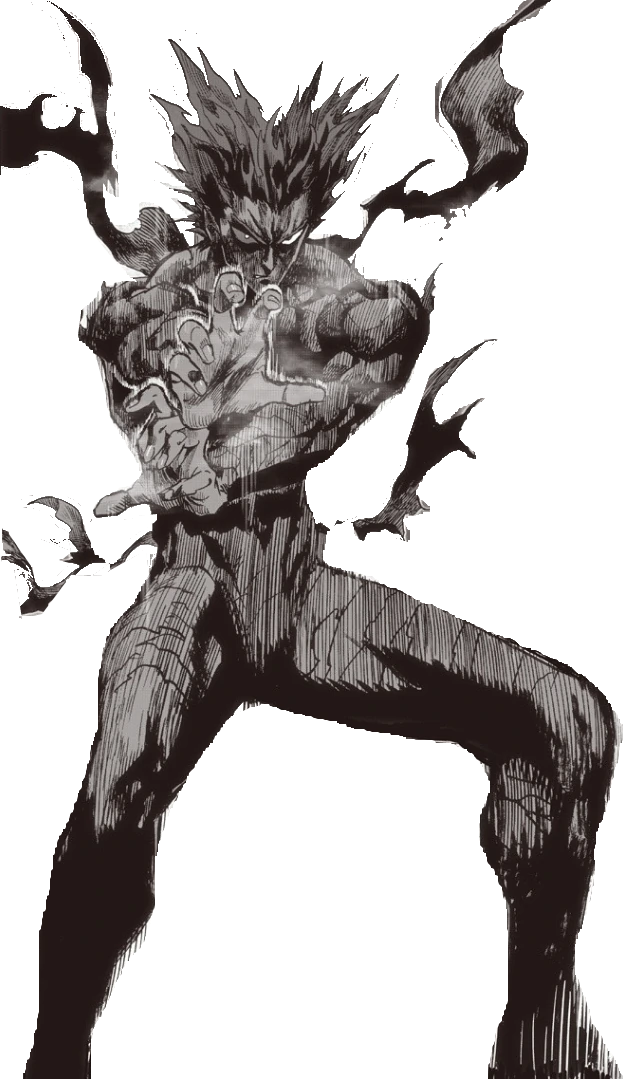
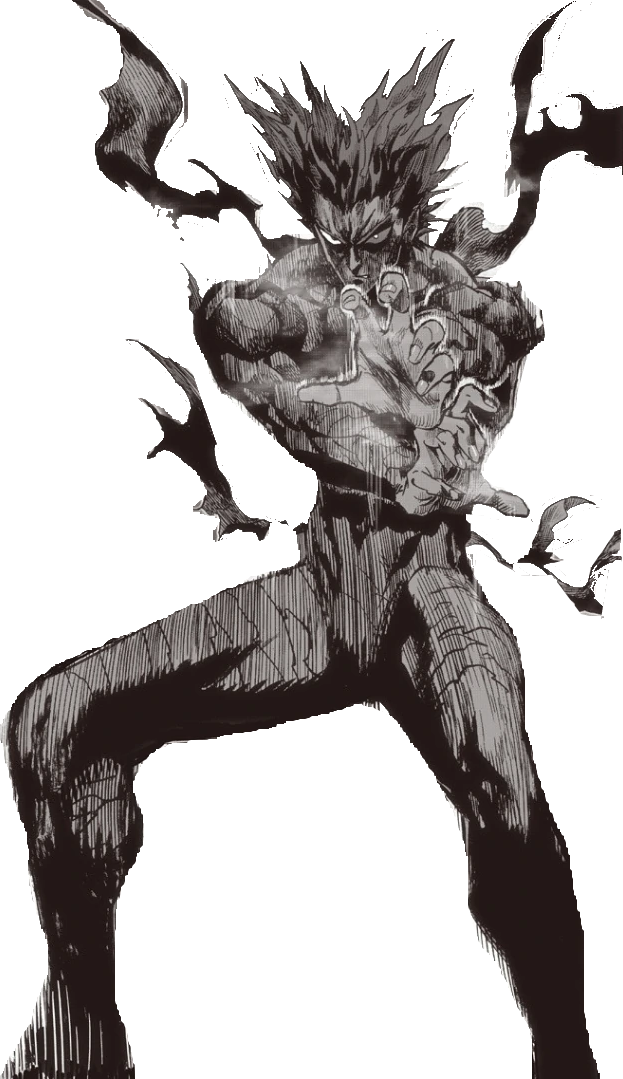
Types!
we now have type calculation, very cool

diff --git a/Type.cs b/Type.cs
@@ -1,0 +1,195 @@
+namespace Pokemon_Simulator
+{
+    public enum Type
+    {
+        Normal,
+        Fighting,
+        Flying,
+        Poison,
+        Ground,
+        Rock,
+        Bug,
+        Ghost,
+        Steel,
+        Fire,
+        Water,
+        Grass,
+        Electric,
+        Psychic,
+        Ice,
+        Dragon,
+        Dark,
+        Fairy,
+        None
+    }
+
+    public static class TypeData
+    {
+        public static float CalculateEffectiveness(Type pokemonType, Type moveType)
+        {
+            switch (pokemonType)
+            {
+                case Type.None:
+                    return 1;
+                case Type.Normal:
+                    if (moveType == Type.Rock) return 0.5f;
+                    else if (moveType == Type.Ghost) return 0;
+                    else if (moveType == Type.Steel) return 0.5f;
+                    return 1;
+                case Type.Fighting:
+                    if (moveType == Type.Normal) return 2;
+                    else if (moveType == Type.Flying) return 0.5f;
+                    else if (moveType == Type.Poison) return 0.5f;
+                    else if (moveType == Type.Rock) return 2;
+                    else if (moveType == Type.Bug) return 0.5f;
+                    else if (moveType == Type.Ghost) return 0;
+                    else if (moveType == Type.Steel) return 2;
+                    else if (moveType == Type.Psychic) return 0.5f;
+                    else if (moveType == Type.Ice) return 2;
+                    else if (moveType == Type.Dark) return 2;
+                    else if (moveType == Type.Fairy) return 0.5f;
+                    return 1;
+                case Type.Flying:
+                    if (moveType == Type.Fighting) return 2;
+                    else if (moveType == Type.Rock) return 0.5f;
+                    else if (moveType == Type.Bug) return 2;
+                    else if (moveType == Type.Steel) return 0.5f;
+                    else if (moveType == Type.Grass) return 2;
+                    else if (moveType == Type.Electric) return 0.5f;
+                    return 1;
+                case Type.Poison:
+                    if (moveType == Type.Poison) return 0.5f;
+                    else if (moveType == Type.Ground) return 0.5f;
+                    else if (moveType == Type.Rock) return 0.5f;
+                    else if (moveType == Type.Ghost) return 0.5f;
+                    else if (moveType == Type.Steel) return 0;
+                    else if (moveType == Type.Grass) return 2;
+                    else if (moveType == Type.Fairy) return 2;
+                    return 1;
+                case Type.Ground:
+                    if (moveType == Type.Flying) return 0;
+                    else if (moveType == Type.Rock) return 2;
+                    else if (moveType == Type.Bug) return 0.5f;
+                    else if (moveType == Type.Steel) return 2;
+                    else if (moveType == Type.Bug) return 0.5f;
+                    else if (moveType == Type.Fire) return 2;
+                    else if (moveType == Type.Grass) return 0.5f;
+                    else if (moveType == Type.Electric) return 2;
+                    return 1;
+                case Type.Rock:
+                    if (moveType == Type.Rock) return 0.5f;
+                    else if (moveType == Type.Flying) return 2;
+                    else if (moveType == Type.Ground) return 0.5f;
+                    else if (moveType == Type.Bug) return 2;
+                    else if (moveType == Type.Steel) return 0.5f;
+                    else if (moveType == Type.Fire) return 2;
+                    else if (moveType == Type.Ice) return 2;
+                    return 1;
+                case Type.Bug:
+                    if (moveType == Type.Fighting) return 0.5f;
+                    else if (moveType == Type.Flying) return 0.5f;
+                    else if (moveType == Type.Poison) return 0.5f;
+                    else if (moveType == Type.Rock) return 2;
+                    else if (moveType == Type.Ghost) return 0.5f;
+                    else if (moveType == Type.Steel) return 0.5f;
+                    else if (moveType == Type.Fire) return 0.5f;
+                    else if (moveType == Type.Grass) return 2;
+                    else if (moveType == Type.Psychic) return 2;
+                    else if (moveType == Type.Dark) return 2;
+                    else if (moveType == Type.Fairy) return 0.5f;
+                    return 1;
+                case Type.Ghost:
+                    if (moveType == Type.Normal) return 0;
+                    else if (moveType == Type.Ghost) return 2;
+                    else if (moveType == Type.Psychic) return 2;
+                    else if (moveType == Type.Dark) return 0.5f;
+                    return 1;
+                case Type.Steel:
+                    if (moveType == Type.Rock) return 2;
+                    else if (moveType == Type.Steel) return 0.5f;
+                    else if (moveType == Type.Fire) return 0.5f;
+                    else if (moveType == Type.Water) return 0.5f;
+                    else if (moveType == Type.Electric) return 0.5f;
+                    else if (moveType == Type.Ice) return 2;
+                    else if (moveType == Type.Fairy) return 2;
+                    return 1;
+                case Type.Fire:
+                    if (moveType == Type.Rock) return 0.5f;
+                    else if (moveType == Type.Bug) return 2;
+                    else if (moveType == Type.Steel) return 2;
+                    else if (moveType == Type.Fire) return 0.5f;
+                    else if (moveType == Type.Water) return 0.5f;
+                    else if (moveType == Type.Grass) return 2;
+                    else if (moveType == Type.Ice) return 2;
+                    else if (moveType == Type.Dragon) return 0.5f;
+                    return 1;
+                case Type.Water:
+                    if (moveType == Type.Ground) return 2;
+                    else if (moveType == Type.Rock) return 2;
+                    else if (moveType == Type.Fire) return 2;
+                    else if (moveType == Type.Water) return 0.5f;
+                    else if (moveType == Type.Grass) return 0.5f;
+                    else if (moveType == Type.Dragon) return 0.5f;
+                    return 1;
+                case Type.Grass:
+                    if (moveType == Type.Flying) return 0.5f;
+                    else if (moveType == Type.Poison) return 0.5f;
+                    else if (moveType == Type.Ground) return 2;
+                    else if (moveType == Type.Rock) return 2;
+                    else if (moveType == Type.Bug) return 0.5f;
+                    else if (moveType == Type.Steel) return 0.5f;
+                    else if (moveType == Type.Fire) return 0.5f;
+                    else if (moveType == Type.Water) return 2;
+                    else if (moveType == Type.Grass) return 0.5f;
+                    else if (moveType == Type.Dragon) return 0.5f;
+                    return 1;
+                case Type.Electric:
+                    if (moveType == Type.Flying) return 2;
+                    else if (moveType == Type.Ground) return 0;
+                    else if (moveType == Type.Water) return 2;
+                    else if (moveType == Type.Grass) return 0.5f;
+                    else if (moveType == Type.Electric) return 0.5f;
+                    else if (moveType == Type.Dragon) return 0.5f;
+                    return 1;
+                case Type.Psychic:
+                    if (moveType == Type.Fighting) return 2;
+                    else if (moveType == Type.Poison) return 2;
+                    else if (moveType == Type.Steel) return 0.5f;
+                    else if (moveType == Type.Psychic) return 0.5f;
+                    else if (moveType == Type.Dark) return 0;
+                    return 1;
+                case Type.Ice:
+                    if (moveType == Type.Flying) return 2;
+                    else if (moveType == Type.Ground) return 2;
+                    else if (moveType == Type.Steel) return 0.5f;
+                    else if (moveType == Type.Fire) return 0.5f;
+                    else if (moveType == Type.Water) return 0.5f;
+                    else if (moveType == Type.Grass) return 2;
+                    else if (moveType == Type.Ice) return 0.5f;
+                    else if (moveType == Type.Dragon) return 2;
+                    return 1;
+                case Type.Dragon:
+                    if (moveType == Type.Steel) return 0.5f;
+                    else if (moveType == Type.Dragon) return 2;
+                    else if (moveType == Type.Fairy) return 0;
+                    return 1;
+                case Type.Dark:
+                    if (moveType == Type.Fighting) return 0.5f;
+                    else if (moveType == Type.Ghost) return 2;
+                    else if (moveType == Type.Psychic) return 2;
+                    else if (moveType == Type.Dark) return 0.5f;
+                    else if (moveType == Type.Fairy) return 0.5f;
+                    return 1;
+                case Type.Fairy:
+                    if (moveType == Type.Fighting) return 2;
+                    else if (moveType == Type.Poison) return 0.5f;
+                    else if (moveType == Type.Steel) return 0.5f;
+                    else if (moveType == Type.Fire) return 0.5f;
+                    else if (moveType == Type.Dragon) return 2;
+                    else if (moveType == Type.Dark) return 2;
+                    return 1;
+            }
+            return 1;
+        }
+    }
+}

diff --git a/Move.cs b/Move.cs
@@ -16,7 +16,7 @@ namespace Pokemon_Simulator
         public bool physical;
         public bool actualAttack;
         public bool recoil = false;
-        public string type;
+        public Type type;
         public int pp;
         public int maxPP;
         public bool canHealOneSelf = false;
@@ -53,7 +53,7 @@ namespace Pokemon_Simulator
             moveName = "Struggle";
             physical = true;
             actualAttack = true;
-            type = "None";
+            type = Type.None;
             pp = 10;
             maxPP = pp;
             recoil = true;
@@ -70,7 +70,7 @@ namespace Pokemon_Simulator
             moveName = "Dazzling Gleam";
             physical = false;
             actualAttack = true;
-            type = "Fairy";
+            type = Type.Fairy;
             pp = 10;
             maxPP = pp;
             canHealOneSelf = true;
@@ -87,7 +87,7 @@ namespace Pokemon_Simulator
             moveName = "Mystical Fire";
             physical = false;
             actualAttack = true;
-            type = "Fire";
+            type = Type.Fire;
             pp = 10;
             maxPP = pp;
             lowersEspAtk = true;
@@ -105,7 +105,7 @@ namespace Pokemon_Simulator
         {
             moveName = "Recover";
             actualAttack = false;
-            type = "Normal";
+            type = Type.Normal;
             pp = 5;
             maxPP = pp;
             canHealOneSelf = true;
@@ -123,7 +123,7 @@ namespace Pokemon_Simulator
         {
             moveName = "Calm Mind";
             actualAttack = false;
-            type = "Psychic";
+            type = Type.Psychic;
             pp = 20;
             maxPP = pp;
             raisesEspAtk = true;

diff --git a/Pokemon.cs b/Pokemon.cs
@@ -32,8 +32,8 @@ namespace Pokemon_Simulator
         protected double speed;
         public double currSpeed;
 
-        public string type1;
-        public string type2;
+        public Type type1 = Type.None;
+        public Type type2 = Type.None;
 
         public List<Move> moves;
 
@@ -70,8 +70,9 @@ namespace Pokemon_Simulator
             double defenseModifier = move.physical ? currAttack / target.currDefense : currSpecialAttack / target.currSpecialDefense;
             double stabModifier = (type1 == move.type || type2 == move.type) ? 1.5 : 1;
             // TODO: supereffective and not very effective
+            double effectiveModifier = TypeData.CalculateEffectiveness(type1, move.type) * TypeData.CalculateEffectiveness(type2, move.type);
 
-            double damage = ((levelModifier * move.damage * defenseModifier / 50) + 2) * stabModifier;
+            double damage = ((levelModifier * move.damage * defenseModifier / 50) + 2) * stabModifier * effectiveModifier;
 
             target.currHealth -= damage;
 

diff --git a/BattleWIndow.cs b/BattleWIndow.cs
@@ -71,6 +71,7 @@ namespace Pokemon_Simulator.Properties
             // Get the directory of the actual project, then get the resources folder
             playerPokemonImage.Image = Image.FromFile(Directory.GetParent(Environment.CurrentDirectory).Parent.Parent.FullName
                 + @"\Pokemon-Simulator\Resources\" + pokemon.name + "_Battle.png");
+            playerPokemonImage.Image.RotateFlip(RotateFlipType.RotateNoneFlipX);
 
             // Load their moves too
             LoadPlayerMoves(moves);

diff --git a/MainWindow.cs b/MainWindow.cs
@@ -180,7 +180,7 @@ namespace Pokemon_Simulator
             LblSpDefense.Text = "Sp. Def: " + selectedPokemon.GetSpecialDefense();
             LblSpeed.Text = "Speed: " + selectedPokemon.GetSpeed();
             LblType.Text = "Type: " + selectedPokemon.type1;
-            if (selectedPokemon.type2 != "None")
+            if (selectedPokemon.type2 != Type.None)
             {
                 LblType.Text += ", " + selectedPokemon.type2;
             }

diff --git a/PokemonClasses/Roserade.cs b/PokemonClasses/Roserade.cs
@@ -17,8 +17,8 @@ namespace Pokemon_Simulator.PokemonClasses
             specialAttack = currSpecialAttack = 145;
             specialDefense = currSpecialDefense = 125;
             speed = currSpeed = 110;
-            type1 = "Grass";
-            type2 = "Poison";
+            type1 = Type.Grass;
+            type2 = Type.Poison;
 
             moves.Add(new DazzlingGleam(this));
             moves.Add(new MysticalFire(this));

diff --git a/PokemonClasses/Kasane.cs b/PokemonClasses/Kasane.cs
@@ -18,8 +18,7 @@ namespace Pokemon_Simulator.PokemonClasses
             specialAttack = currSpecialAttack = 103;
             specialDefense = currSpecialDefense = 113;
             speed = currSpeed = 62;
-            type1 = "Fairy";
-            type2 = "None";          
+            type1 = Type.Fairy;        
 
             moves.Add(new DazzlingGleam(this));
             moves.Add(new MysticalFire(this));

diff --git a/PokemonClasses/Garou.cs b/PokemonClasses/Garou.cs
@@ -23,8 +23,7 @@ namespace Pokemon_Simulator.PokemonClasses
             specialAttack = currSpecialAttack = 65;
             specialDefense = currSpecialDefense = 80;
             speed = currSpeed = 120;
-            type1 = "Fighting";
-            type2 = "None";
+            type1 = Type.Fighting;
 
             moves.Add(new DazzlingGleam(this));
             moves.Add(new MysticalFire(this));

diff --git a/PokemonClasses/Gudako.cs b/PokemonClasses/Gudako.cs
@@ -17,8 +17,7 @@ namespace Pokemon_Simulator.PokemonClasses
             specialAttack = currSpecialAttack = 145;
             specialDefense = currSpecialDefense = 125;
             speed = currSpeed = 110;
-            type1 = "Normal";
-            type2 = "None";
+            type1 = Type.Normal;
 
             moves.Add(new DazzlingGleam(this));
             moves.Add(new MysticalFire(this));

diff --git a/PokemonClasses/Kogami.cs b/PokemonClasses/Kogami.cs
@@ -17,8 +17,7 @@ namespace Pokemon_Simulator.PokemonClasses
             specialAttack = currSpecialAttack = 145;
             specialDefense = currSpecialDefense = 125;
             speed = currSpeed = 110;
-            type1 = "Fairy";
-            type2 = "None";
+            type1 = Type.Fairy;
 
             moves.Add(new DazzlingGleam(this));
             moves.Add(new MysticalFire(this));

diff --git a/PokemonClasses/Miku.cs b/PokemonClasses/Miku.cs
@@ -17,8 +17,7 @@ namespace Pokemon_Simulator.PokemonClasses
             specialAttack = currSpecialAttack = 145;
             specialDefense = currSpecialDefense = 125;
             speed = currSpeed = 110;
-            type1 = "Fairy";
-            type2 = "None";
+            type1 = Type.Fairy;
 
             moves.Add(new DazzlingGleam(this));
             moves.Add(new MysticalFire(this));

diff --git a/PokemonClasses/Alcremie.cs b/PokemonClasses/Alcremie.cs
@@ -23,8 +23,7 @@ namespace Pokemon_Simulator.PokemonClasses
             specialAttack = currSpecialAttack = 130;
             specialDefense = currSpecialDefense = 141;
             speed = currSpeed = 84;
-            type1 = "Fairy";
-            type2 = "None";
+            type1 = Type.Fairy;
 
             moves.Add(new DazzlingGleam(this));
             moves.Add(new MysticalFire(this));
